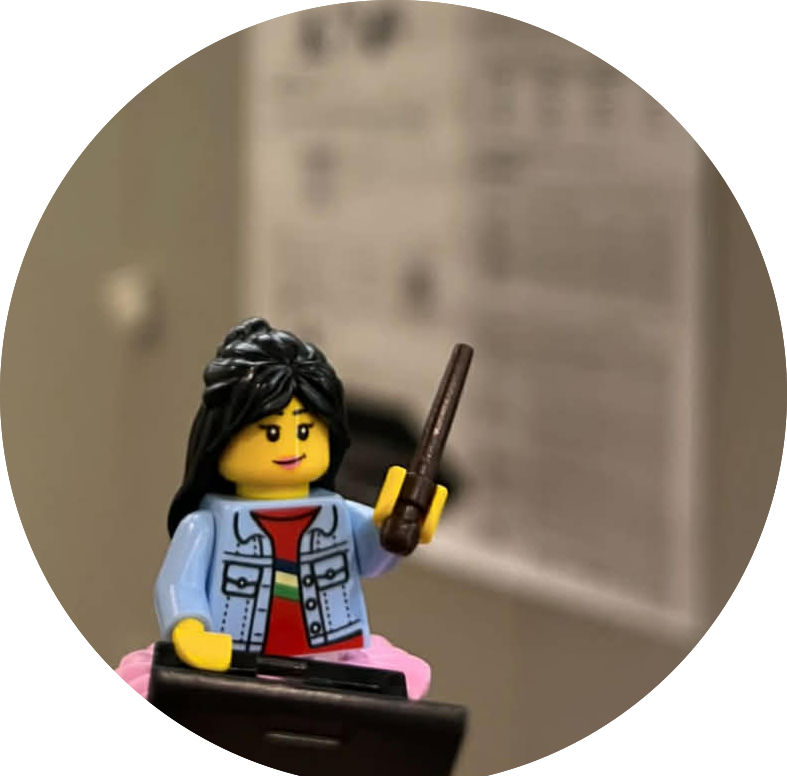
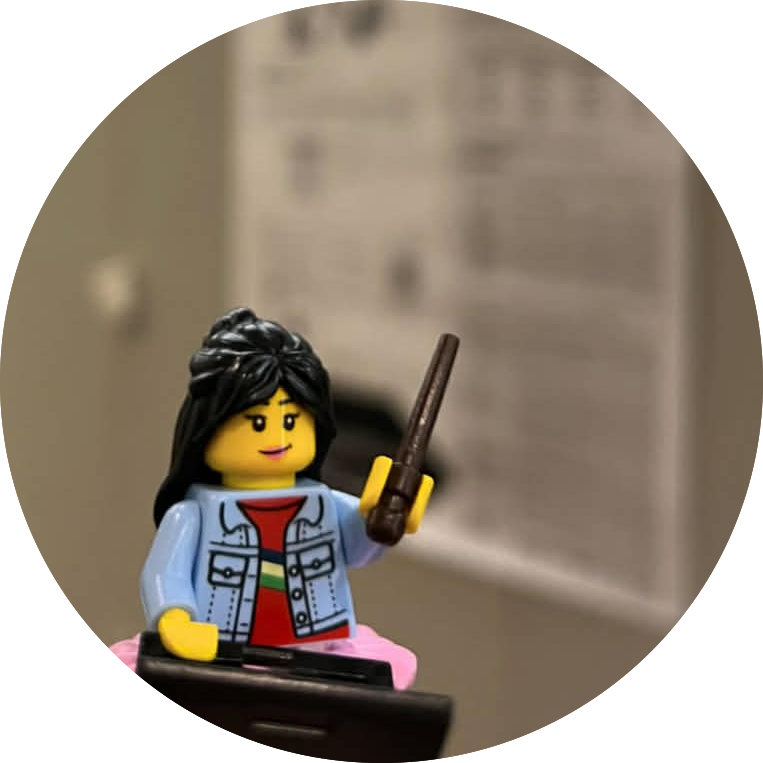
style fix

diff --git a/index.html b/index.html
@@ -32,8 +32,9 @@
 
   <body id="top">
     <header class="bg-light">
-      <nav class="navbar navbar-expand-lg navbar-light bg-light" id="header-nav" role="navigation">
-        <div class="container"><a class="link-dark navbar-brand site-title mb-0" href="#">Ampere's Profile & Research</a>
+      
+     <nav class="navbar navbar-expand-lg navbar-light bg-light border-bottom" id="header-nav" role="navigation">
+              <div class="container"><a class="link-dark navbar-brand site-title mb-0" href="#">Ampere's Profile & Research</a>
           <button class="navbar-toggler" type="button" data-bs-toggle="collapse" data-bs-target="#navbarSupportedContent" aria-controls="navbarSupportedContent" aria-expanded="false" aria-label="Toggle navigation"><span class="navbar-toggler-icon"></span></button>
           <div class="collapse navbar-collapse" id="navbarSupportedContent">
             <ul class="navbar-nav ms-auto me-2">
@@ -53,7 +54,7 @@
   <div class="cover bg-light">
     <div class="container px-3">
       <div class="row">
-        <div class="col-lg-6 p-2"><img class="img-fluid" src="images/illustrations/sigfig.png" alt="hello"/></div>
+        <div class="col-lg-6 p-2"><img class="img-fluid" src="images/illustrations/sigfig.png" alt="hello" style="max-width: 80%;"/></div>
         <div class="col-lg-6">
           <div class="mt-5">
             <p class="lead text-uppercase mb-1">Hello!</p>
@@ -116,7 +117,10 @@
   <div class="pb-1">Address:</div>
 </div>
 <div class="col-sm-10">
-  <div class="pb-1 fw-bolder">Creation Core, Ritsumeikan University(BKC) 1-1-1 Noji-higashi, Kusatsu 525-8577, Shiga, Japan</div>
+<div class="pb-1 fw-bolder">
+  Ritsumeikan University, Osaka Ibaraki Campus (OIC)<br>
+  2-150 Iwakura-cho, Ibaraki, Osaka 567-8570, Japan
+</div>
 </div>
 </div>
       </div>

diff --git a/css/main.css b/css/main.css
@@ -245,7 +245,7 @@ footer a:not(.nav-link) {
   position: absolute;
   bottom: -25px;
   right: -30px;
-  background-image: url("../images/marker.svg");
+  background-image: url("../images/plate125.png");
   background-repeat: no-repeat;
 }
 
@@ -268,9 +268,4 @@ footer a:not(.nav-link) {
 
 .entry-title a {
   text-decoration: none;
-}
-
-/* Custom styles for section titles */
-.section-title {
-  max-width: 600px;
 }
